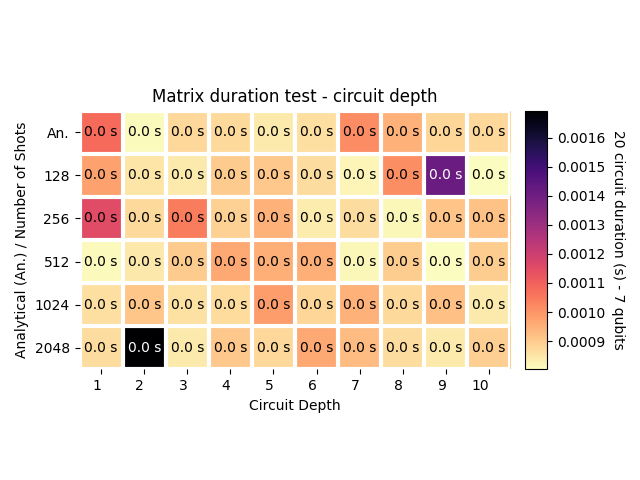
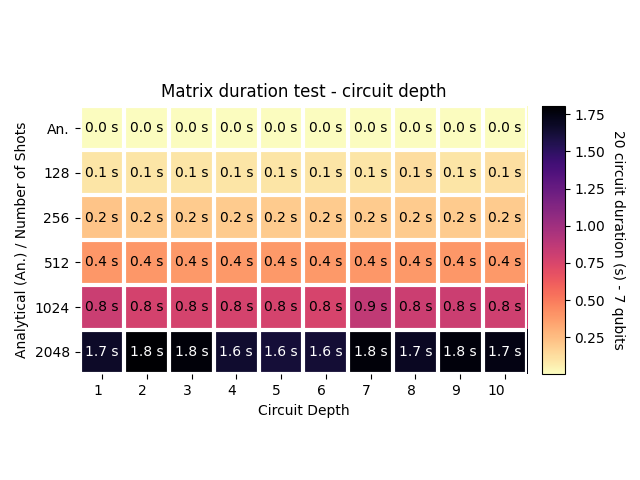
implementation shots, move config.py in gitignore

diff --git a/classes.py b/classes.py
@@ -181,7 +181,7 @@ class duration_real(duration_qiskit):
 class duration_matrix(initialize):
     def generate_circuit(self, shots):
         self.qcs = []
-        for e in range(self.evals):
+        for _ in range(self.evals):
             qasm_circuit = utils.get_random_qasm_circuit(
                 self.qubits, self.depth, self.seed, measure=False
             )
@@ -191,12 +191,13 @@ class duration_matrix(initialize):
 
     def execute(self, shots):
         # keine circuits sondern fertige Matrizen
-        for matrix in self.qcs:
-
-            row_vector = np.zeros(2**self.qubits)
-            row_vector[0] = 1
-            qubit_vector = np.array([row_vector]).T
-            result = np.dot(np.array(matrix), np.array(qubit_vector))
+        shots = 1 if shots == None else shots
+        for _ in range(shots):
+            for matrix in self.qcs:
+                row_vector = np.zeros(2**self.qubits)
+                row_vector[0] = 1
+                qubit_vector = np.array([row_vector]).T
+                result = np.dot(np.array(matrix), np.array(qubit_vector))
 
 
 class duration_cirq(initialize):
